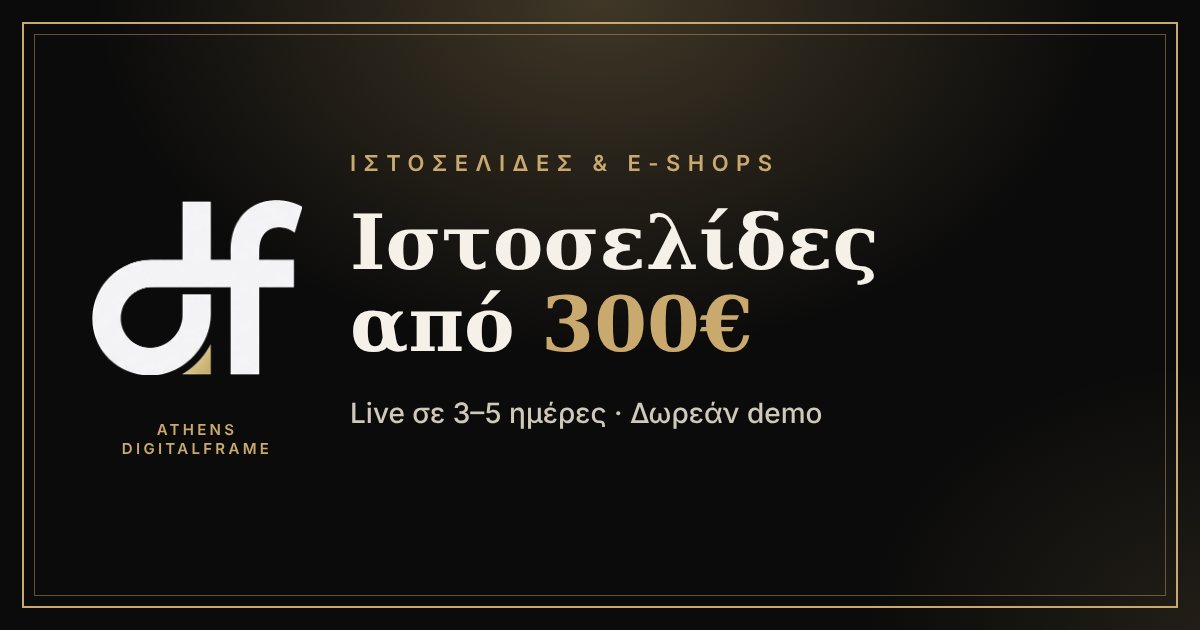
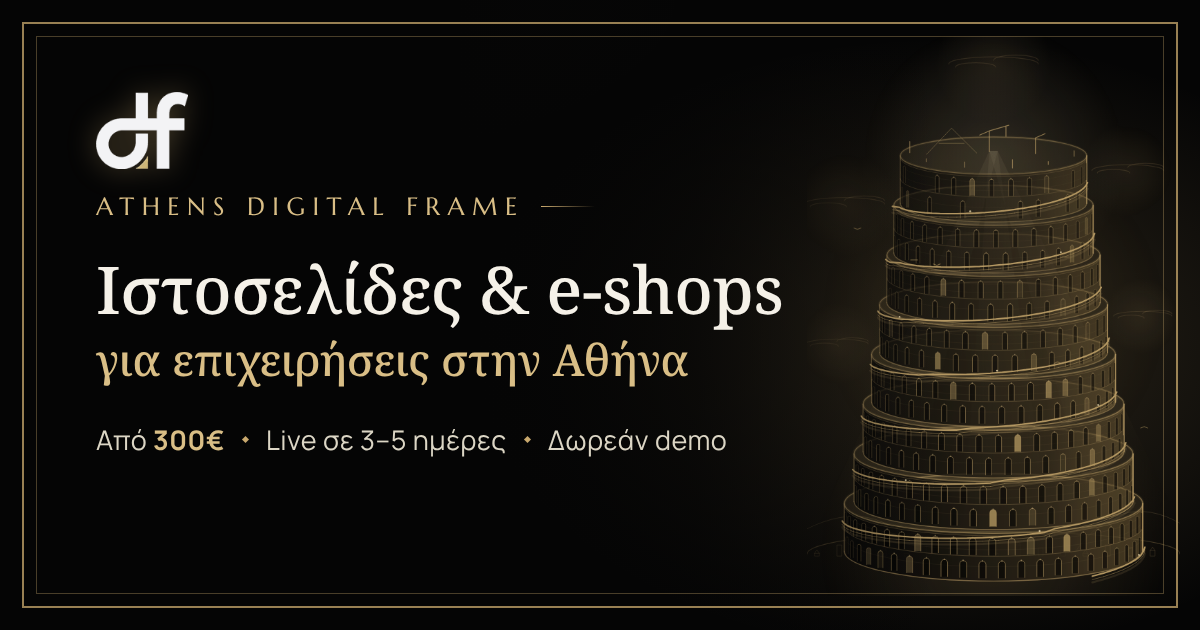
Polish: hero legibility, readable text sizes, prices page restyle, new og image, scroll reveal
Claude-Session: https://claude.ai/code/session_01Leueyi132yxe9phAvRirnF

diff --git a/source/prices_src.html b/source/prices_src.html
@@ -361,7 +361,39 @@ section.compact{padding-left:18px;padding-right:18px}
 .dock .dockrow{max-width:620px}
 .toast{left:max(21px,env(safe-area-inset-left,0px))}
 </style>
-<style>.snd{transition:opacity .35s ease,transform .35s ease,background .2s,border-color .2s}.snd.away{opacity:0;transform:translateY(-10px);pointer-events:none}.homelink{color:var(--gold-soft);text-decoration:none;font-weight:600;display:inline-block;margin-bottom:10px}
+<style>.snd{transition:opacity .35s ease,transform .35s ease,background .2s,border-color .2s}.snd.away{opacity:0;transform:translateY(-10px);pointer-events:none}</style>
+<style>/* premium pass: same palette, lighter type, more air, calmer cards and buttons */
+h1,h2,.hw-head h3,.hw-body strong,.tile strong,.fq summary,.qp .v,.inccols h3{font-weight:500!important}
+h1{letter-spacing:-.005em;line-height:1.26}
+h2{font-size:24px!important;letter-spacing:.005em}
+section{border-color:rgba(201,169,110,.2)!important;box-shadow:inset 0 1px 0 rgba(245,241,232,.05),0 28px 60px -36px #000!important}
+.how{padding:34px 22px 34px!important}.pf{padding:34px 22px!important}.faq2{padding:34px 22px 28px!important}
+section p,section li,.hw-body p{line-height:1.72}
+.eyebrow{letter-spacing:.32em!important;color:var(--gold);opacity:.92}
+.fq summary{font-size:17px!important}
+.fq,.fq details{border-color:rgba(201,169,110,.16)!important}
+.btn{letter-spacing:.03em;font-weight:600;box-shadow:0 6px 18px rgba(201,169,110,.14)}
+.btn:hover{box-shadow:0 8px 22px rgba(201,169,110,.22)}
+.dock .btn:not(.ghost){font-weight:600}
+.dock .btn.ghost#wa{background:rgba(245,241,232,.06)!important;color:var(--cream)!important;border-color:rgba(245,241,232,.4)!important;font-weight:600!important;-webkit-backdrop-filter:blur(8px)!important;backdrop-filter:blur(8px)!important}
+.tile{border-color:rgba(201,169,110,.22)!important}
+/* polish: readability, hero legibility, scroll reveal */
+:root{--muted:#dcd6c5}
+.for,.note,.tile em,.toplead,.contact .alt,.hw-body p,.pf-card p,.price small,.qp .v small,.price-row>span:first-child,.inccols ul.list li,.fq p,footer{font-size:15px!important}
+.toplead{font-size:14px!important}
+.hw-body p,.fq p,.inccols ul.list li{line-height:1.7}
+@media (min-width:900px){
+section>p,.hw-body p,.pf-card p,.inccols ul.list li{max-width:64ch}
+.fq p{max-width:66ch}
+}
+@media (max-width:699px){
+.herotxt{position:relative}
+.herotxt::before{display:block!important;content:"";position:absolute;inset:-22px -14px -10px -18px;z-index:0;pointer-events:none;background:radial-gradient(ellipse 80% 70% at 38% 50%,rgba(5,5,5,.78),rgba(5,5,5,.5) 62%,rgba(5,5,5,0) 100%)}
+.herotxt>*{position:relative;z-index:1}
+}
+.rvjs .rv{opacity:0;transform:translateY(16px);transition:opacity .8s ease,transform .8s cubic-bezier(.2,.8,.2,1)}
+.rvjs .rv.in{opacity:1;transform:none}
+.homelink{color:var(--gold-soft);text-decoration:none;font-weight:600;display:inline-block;margin-bottom:10px}
 .snd.back{right:auto;left:max(88px,calc(env(safe-area-inset-left,0px) + 74px));padding:8px 11px;display:flex;align-items:center;text-decoration:none}
 *,*::before,*::after{-webkit-backdrop-filter:none!important;backdrop-filter:none!important}
 .tile{background:linear-gradient(180deg,rgba(26,24,19,.82),rgba(20,20,17,.82))!important}
@@ -737,6 +769,17 @@ document.addEventListener('click',function(e){
 })();
 </script>
 <script>(function(){var s=[].slice.call(document.querySelectorAll('.snd')),l=0;function f(){var y=window.pageYOffset||document.documentElement.scrollTop||0;if(y>l+4&&y>90)s.forEach(function(b){b.classList.add('away')});else if(y<l-4||y<=90)s.forEach(function(b){b.classList.remove('away')});l=y}window.addEventListener('scroll',f,{passive:true})})();</script>
+
+<script>
+(function(){
+if(!('IntersectionObserver' in window)||(window.matchMedia&&matchMedia('(prefers-reduced-motion:reduce)').matches))return;
+var els=[].slice.call(document.querySelectorAll('section:not(.how):not(.hero),footer'));if(!els.length)return;
+var io=new IntersectionObserver(function(es){es.forEach(function(e){if(e.isIntersecting){e.target.classList.add('in');io.unobserve(e.target)}})},{rootMargin:'0px 0px -6% 0px',threshold:.04});
+document.documentElement.classList.add('rvjs');
+els.forEach(function(e){e.classList.add('rv');io.observe(e)});
+setTimeout(function(){els.forEach(function(e){e.classList.add('in')})},7000);
+})();
+</script>
 <script>
 (function(){
 try{history.scrollRestoration='manual'}catch(e){}

diff --git a/prices.html b/prices.html
@@ -381,7 +381,39 @@ section.compact{padding-left:18px;padding-right:18px}
 </style>
 </head>
 <body>
-<style>.snd{transition:opacity .35s ease,transform .35s ease,background .2s,border-color .2s}.snd.away{opacity:0;transform:translateY(-10px);pointer-events:none}.homelink{color:var(--gold-soft);text-decoration:none;font-weight:600;display:inline-block;margin-bottom:10px}
+<style>.snd{transition:opacity .35s ease,transform .35s ease,background .2s,border-color .2s}.snd.away{opacity:0;transform:translateY(-10px);pointer-events:none}</style>
+<style>/* premium pass: same palette, lighter type, more air, calmer cards and buttons */
+h1,h2,.hw-head h3,.hw-body strong,.tile strong,.fq summary,.qp .v,.inccols h3{font-weight:500!important}
+h1{letter-spacing:-.005em;line-height:1.26}
+h2{font-size:24px!important;letter-spacing:.005em}
+section{border-color:rgba(201,169,110,.2)!important;box-shadow:inset 0 1px 0 rgba(245,241,232,.05),0 28px 60px -36px #000!important}
+.how{padding:34px 22px 34px!important}.pf{padding:34px 22px!important}.faq2{padding:34px 22px 28px!important}
+section p,section li,.hw-body p{line-height:1.72}
+.eyebrow{letter-spacing:.32em!important;color:var(--gold);opacity:.92}
+.fq summary{font-size:17px!important}
+.fq,.fq details{border-color:rgba(201,169,110,.16)!important}
+.btn{letter-spacing:.03em;font-weight:600;box-shadow:0 6px 18px rgba(201,169,110,.14)}
+.btn:hover{box-shadow:0 8px 22px rgba(201,169,110,.22)}
+.dock .btn:not(.ghost){font-weight:600}
+.dock .btn.ghost#wa{background:rgba(245,241,232,.06)!important;color:var(--cream)!important;border-color:rgba(245,241,232,.4)!important;font-weight:600!important;-webkit-backdrop-filter:blur(8px)!important;backdrop-filter:blur(8px)!important}
+.tile{border-color:rgba(201,169,110,.22)!important}
+/* polish: readability, hero legibility, scroll reveal */
+:root{--muted:#dcd6c5}
+.for,.note,.tile em,.toplead,.contact .alt,.hw-body p,.pf-card p,.price small,.qp .v small,.price-row>span:first-child,.inccols ul.list li,.fq p,footer{font-size:15px!important}
+.toplead{font-size:14px!important}
+.hw-body p,.fq p,.inccols ul.list li{line-height:1.7}
+@media (min-width:900px){
+section>p,.hw-body p,.pf-card p,.inccols ul.list li{max-width:64ch}
+.fq p{max-width:66ch}
+}
+@media (max-width:699px){
+.herotxt{position:relative}
+.herotxt::before{display:block!important;content:"";position:absolute;inset:-22px -14px -10px -18px;z-index:0;pointer-events:none;background:radial-gradient(ellipse 80% 70% at 38% 50%,rgba(5,5,5,.78),rgba(5,5,5,.5) 62%,rgba(5,5,5,0) 100%)}
+.herotxt>*{position:relative;z-index:1}
+}
+.rvjs .rv{opacity:0;transform:translateY(16px);transition:opacity .8s ease,transform .8s cubic-bezier(.2,.8,.2,1)}
+.rvjs .rv.in{opacity:1;transform:none}
+.homelink{color:var(--gold-soft);text-decoration:none;font-weight:600;display:inline-block;margin-bottom:10px}
 .snd.back{right:auto;left:max(88px,calc(env(safe-area-inset-left,0px) + 74px));padding:8px 11px;display:flex;align-items:center;text-decoration:none}
 *,*::before,*::after{-webkit-backdrop-filter:none!important;backdrop-filter:none!important}
 .tile{background:linear-gradient(180deg,rgba(26,24,19,.82),rgba(20,20,17,.82))!important}
@@ -757,6 +789,17 @@ document.addEventListener('click',function(e){
 })();
 </script>
 <script>(function(){var s=[].slice.call(document.querySelectorAll('.snd')),l=0;function f(){var y=window.pageYOffset||document.documentElement.scrollTop||0;if(y>l+4&&y>90)s.forEach(function(b){b.classList.add('away')});else if(y<l-4||y<=90)s.forEach(function(b){b.classList.remove('away')});l=y}window.addEventListener('scroll',f,{passive:true})})();</script>
+
+<script>
+(function(){
+if(!('IntersectionObserver' in window)||(window.matchMedia&&matchMedia('(prefers-reduced-motion:reduce)').matches))return;
+var els=[].slice.call(document.querySelectorAll('section:not(.how):not(.hero),footer'));if(!els.length)return;
+var io=new IntersectionObserver(function(es){es.forEach(function(e){if(e.isIntersecting){e.target.classList.add('in');io.unobserve(e.target)}})},{rootMargin:'0px 0px -6% 0px',threshold:.04});
+document.documentElement.classList.add('rvjs');
+els.forEach(function(e){e.classList.add('rv');io.observe(e)});
+setTimeout(function(){els.forEach(function(e){e.classList.add('in')})},7000);
+})();
+</script>
 <script>
 (function(){
 try{history.scrollRestoration='manual'}catch(e){}

diff --git a/source/home_src.html b/source/home_src.html
@@ -528,7 +528,6 @@ html.fgate main{opacity:0}
 /* reduced motion: everything calm */
 @media (prefers-reduced-motion:reduce){*,*::before,*::after{animation-duration:.001ms!important;animation-delay:0s!important;animation-iteration-count:1!important;transition-duration:.001ms!important;scroll-behavior:auto!important}}
 .btn{min-height:44px;box-sizing:border-box}.actions .btn{display:inline-flex;align-items:center;justify-content:center}
-
 /* premium pass: same palette, lighter type, more air, calmer cards and buttons */
 h1,h2,.hw-head h3,.hw-body strong,.tile strong,.fq summary,.qp .v,.inccols h3{font-weight:500!important}
 h1{letter-spacing:-.005em;line-height:1.26}
@@ -544,6 +543,22 @@ section p,section li,.hw-body p{line-height:1.72}
 .dock .btn:not(.ghost){font-weight:600}
 .dock .btn.ghost#wa{background:rgba(245,241,232,.06)!important;color:var(--cream)!important;border-color:rgba(245,241,232,.4)!important;font-weight:600!important;-webkit-backdrop-filter:blur(8px)!important;backdrop-filter:blur(8px)!important}
 .tile{border-color:rgba(201,169,110,.22)!important}
+/* polish: readability, hero legibility, scroll reveal */
+:root{--muted:#dcd6c5}
+.for,.note,.tile em,.toplead,.contact .alt,.hw-body p,.pf-card p,.price small,.qp .v small,.price-row>span:first-child,.inccols ul.list li,.fq p,footer{font-size:15px!important}
+.toplead{font-size:14px!important}
+.hw-body p,.fq p,.inccols ul.list li{line-height:1.7}
+@media (min-width:900px){
+section>p,.hw-body p,.pf-card p,.inccols ul.list li{max-width:64ch}
+.fq p{max-width:66ch}
+}
+@media (max-width:699px){
+.herotxt{position:relative}
+.herotxt::before{display:block!important;content:"";position:absolute;inset:-22px -14px -10px -18px;z-index:0;pointer-events:none;background:radial-gradient(ellipse 80% 70% at 38% 50%,rgba(5,5,5,.78),rgba(5,5,5,.5) 62%,rgba(5,5,5,0) 100%)}
+.herotxt>*{position:relative;z-index:1}
+}
+.rvjs .rv{opacity:0;transform:translateY(16px);transition:opacity .8s ease,transform .8s cubic-bezier(.2,.8,.2,1)}
+.rvjs .rv.in{opacity:1;transform:none}
 </style>
 
 <div class="bg" aria-hidden="true">
@@ -978,6 +993,17 @@ document.getElementById('lf-mail').addEventListener('click',function(){var v=val
 
 <script>
 (function(){
+if(!('IntersectionObserver' in window)||(window.matchMedia&&matchMedia('(prefers-reduced-motion:reduce)').matches))return;
+var els=[].slice.call(document.querySelectorAll('section:not(.how):not(.hero),footer'));if(!els.length)return;
+var io=new IntersectionObserver(function(es){es.forEach(function(e){if(e.isIntersecting){e.target.classList.add('in');io.unobserve(e.target)}})},{rootMargin:'0px 0px -6% 0px',threshold:.04});
+document.documentElement.classList.add('rvjs');
+els.forEach(function(e){e.classList.add('rv');io.observe(e)});
+setTimeout(function(){els.forEach(function(e){e.classList.add('in')})},7000);
+})();
+</script>
+
+<script>
+(function(){
 var cv=document.getElementById('babel');if(!cv)return;
 var ctx=cv.getContext('2d'),W=0,H=0,dpr=Math.min(window.devicePixelRatio||1,1.5);
 var reduce=window.matchMedia('(prefers-reduced-motion:reduce)').matches;
@@ -1129,9 +1155,9 @@ st.appendChild(tx);st.appendChild(im);st.appendChild(nm);document.body.appendChi
 var armed=true,tm=null,opened=false;setTimeout(function(){opened=true;check()},1400);
 function check(){var y=yy();
   if(armed&&(y>450||opened)){armed=false;st.classList.add('on');
-    if(window.innerWidth<700){clearTimeout(tm);tm=setTimeout(function(){st.classList.add('mini')},4000)}}
+    if(window.innerWidth<700){clearTimeout(tm);st.classList.add('mini')}}
   }
-st.addEventListener('click',function(){if(window.innerWidth<700){st.classList.toggle('mini');clearTimeout(tm)}});
+st.addEventListener('click',function(){if(window.innerWidth<700){st.classList.toggle('mini');clearTimeout(tm);if(!st.classList.contains('mini'))tm=setTimeout(function(){st.classList.add('mini')},8000)}});
 var lastY=0,snds=[].slice.call(document.querySelectorAll('.snd'));
 function dirCheck(){var y=yy();
   var hide=(y>lastY+4&&y>90);var show=(y<lastY-4||y<=90);

diff --git a/index.html b/index.html
@@ -546,7 +546,6 @@ html.fgate main{opacity:0}
 /* reduced motion: everything calm */
 @media (prefers-reduced-motion:reduce){*,*::before,*::after{animation-duration:.001ms!important;animation-delay:0s!important;animation-iteration-count:1!important;transition-duration:.001ms!important;scroll-behavior:auto!important}}
 .btn{min-height:44px;box-sizing:border-box}.actions .btn{display:inline-flex;align-items:center;justify-content:center}
-
 /* premium pass: same palette, lighter type, more air, calmer cards and buttons */
 h1,h2,.hw-head h3,.hw-body strong,.tile strong,.fq summary,.qp .v,.inccols h3{font-weight:500!important}
 h1{letter-spacing:-.005em;line-height:1.26}
@@ -562,6 +561,22 @@ section p,section li,.hw-body p{line-height:1.72}
 .dock .btn:not(.ghost){font-weight:600}
 .dock .btn.ghost#wa{background:rgba(245,241,232,.06)!important;color:var(--cream)!important;border-color:rgba(245,241,232,.4)!important;font-weight:600!important;-webkit-backdrop-filter:blur(8px)!important;backdrop-filter:blur(8px)!important}
 .tile{border-color:rgba(201,169,110,.22)!important}
+/* polish: readability, hero legibility, scroll reveal */
+:root{--muted:#dcd6c5}
+.for,.note,.tile em,.toplead,.contact .alt,.hw-body p,.pf-card p,.price small,.qp .v small,.price-row>span:first-child,.inccols ul.list li,.fq p,footer{font-size:15px!important}
+.toplead{font-size:14px!important}
+.hw-body p,.fq p,.inccols ul.list li{line-height:1.7}
+@media (min-width:900px){
+section>p,.hw-body p,.pf-card p,.inccols ul.list li{max-width:64ch}
+.fq p{max-width:66ch}
+}
+@media (max-width:699px){
+.herotxt{position:relative}
+.herotxt::before{display:block!important;content:"";position:absolute;inset:-22px -14px -10px -18px;z-index:0;pointer-events:none;background:radial-gradient(ellipse 80% 70% at 38% 50%,rgba(5,5,5,.78),rgba(5,5,5,.5) 62%,rgba(5,5,5,0) 100%)}
+.herotxt>*{position:relative;z-index:1}
+}
+.rvjs .rv{opacity:0;transform:translateY(16px);transition:opacity .8s ease,transform .8s cubic-bezier(.2,.8,.2,1)}
+.rvjs .rv.in{opacity:1;transform:none}
 </style>
 </head>
 <body>
@@ -997,6 +1012,17 @@ document.getElementById('lf-mail').addEventListener('click',function(){var v=val
 
 <script>
 (function(){
+if(!('IntersectionObserver' in window)||(window.matchMedia&&matchMedia('(prefers-reduced-motion:reduce)').matches))return;
+var els=[].slice.call(document.querySelectorAll('section:not(.how):not(.hero),footer'));if(!els.length)return;
+var io=new IntersectionObserver(function(es){es.forEach(function(e){if(e.isIntersecting){e.target.classList.add('in');io.unobserve(e.target)}})},{rootMargin:'0px 0px -6% 0px',threshold:.04});
+document.documentElement.classList.add('rvjs');
+els.forEach(function(e){e.classList.add('rv');io.observe(e)});
+setTimeout(function(){els.forEach(function(e){e.classList.add('in')})},7000);
+})();
+</script>
+
+<script>
+(function(){
 var cv=document.getElementById('babel');if(!cv)return;
 var ctx=cv.getContext('2d'),W=0,H=0,dpr=Math.min(window.devicePixelRatio||1,1.5);
 var reduce=window.matchMedia('(prefers-reduced-motion:reduce)').matches;
@@ -1148,9 +1174,9 @@ st.appendChild(tx);st.appendChild(im);st.appendChild(nm);document.body.appendChi
 var armed=true,tm=null,opened=false;setTimeout(function(){opened=true;check()},1400);
 function check(){var y=yy();
   if(armed&&(y>450||opened)){armed=false;st.classList.add('on');
-    if(window.innerWidth<700){clearTimeout(tm);tm=setTimeout(function(){st.classList.add('mini')},4000)}}
+    if(window.innerWidth<700){clearTimeout(tm);st.classList.add('mini')}}
   }
-st.addEventListener('click',function(){if(window.innerWidth<700){st.classList.toggle('mini');clearTimeout(tm)}});
+st.addEventListener('click',function(){if(window.innerWidth<700){st.classList.toggle('mini');clearTimeout(tm);if(!st.classList.contains('mini'))tm=setTimeout(function(){st.classList.add('mini')},8000)}});
 var lastY=0,snds=[].slice.call(document.querySelectorAll('.snd'));
 function dirCheck(){var y=yy();
   var hide=(y>lastY+4&&y>90);var show=(y<lastY-4||y<=90);

diff --git a/source/extra.js b/source/extra.js
@@ -21,9 +21,9 @@ st.appendChild(tx);st.appendChild(im);st.appendChild(nm);document.body.appendChi
 var armed=true,tm=null,opened=false;setTimeout(function(){opened=true;check()},1400);
 function check(){var y=yy();
   if(armed&&(y>450||opened)){armed=false;st.classList.add('on');
-    if(window.innerWidth<700){clearTimeout(tm);tm=setTimeout(function(){st.classList.add('mini')},4000)}}
+    if(window.innerWidth<700){clearTimeout(tm);st.classList.add('mini')}}
   }
-st.addEventListener('click',function(){if(window.innerWidth<700){st.classList.toggle('mini');clearTimeout(tm)}});
+st.addEventListener('click',function(){if(window.innerWidth<700){st.classList.toggle('mini');clearTimeout(tm);if(!st.classList.contains('mini'))tm=setTimeout(function(){st.classList.add('mini')},8000)}});
 var lastY=0,snds=[].slice.call(document.querySelectorAll('.snd'));
 function dirCheck(){var y=yy();
   var hide=(y>lastY+4&&y>90);var show=(y<lastY-4||y<=90);

diff --git a/source/reveal.js b/source/reveal.js
@@ -1,0 +1,10 @@
+<script>
+(function(){
+if(!('IntersectionObserver' in window)||(window.matchMedia&&matchMedia('(prefers-reduced-motion:reduce)').matches))return;
+var els=[].slice.call(document.querySelectorAll('section:not(.how):not(.hero),footer'));if(!els.length)return;
+var io=new IntersectionObserver(function(es){es.forEach(function(e){if(e.isIntersecting){e.target.classList.add('in');io.unobserve(e.target)}})},{rootMargin:'0px 0px -6% 0px',threshold:.04});
+document.documentElement.classList.add('rvjs');
+els.forEach(function(e){e.classList.add('rv');io.observe(e)});
+setTimeout(function(){els.forEach(function(e){e.classList.add('in')})},7000);
+})();
+</script>

diff --git a/source/mkpages.py b/source/mkpages.py
@@ -42,8 +42,9 @@ pr=inject_extra(pr)
 css_hide = "<style>.snd{transition:opacity .35s ease,transform .35s ease,background .2s,border-color .2s}.snd.away{opacity:0;transform:translateY(-10px);pointer-events:none}</style>\n"
 js_hide = """<script>(function(){var s=[].slice.call(document.querySelectorAll('.snd')),l=0;function f(){var y=window.pageYOffset||document.documentElement.scrollTop||0;if(y>l+4&&y>90)s.forEach(function(b){b.classList.add('away')});else if(y<l-4||y<=90)s.forEach(function(b){b.classList.remove('away')});l=y}window.addEventListener('scroll',f,{passive:true})})();</script>
 """
+css_hide=css_hide+'<style>'+open('premium_css.txt',encoding='utf-8').read()+open('polish_css.txt',encoding='utf-8').read()+'</style>\n'
 _k=pr.rindex('</style>')+len('</style>');pr=pr[:_k]+'\n'+css_hide+pr[_k:]
-pr=pr.rstrip()+'\n'+js_hide
+pr=pr.rstrip()+'\n'+js_hide+'\n'+open('reveal.js',encoding='utf-8').read()
 
 # ---------- home page
 m=re.search(r'<main>.*?</main>',P,flags=re.S); main=m.group(0)
@@ -258,8 +259,8 @@ for name,h,css in (('home',home,css_home),('prices',pr,css_prices)):
         assert _pre in h
         h=h.replace(_pre,_pre+'<script>document.documentElement.classList.add("fgate");(function(){function d(){document.documentElement.classList.remove("fgate")}setTimeout(d,1400);try{document.fonts.ready.then(d)}catch(e){d()}})()</script>',1)
         h=h.replace('<link rel="stylesheet" href="https://fonts.googleapis.com/css2','<link rel="preload" as="style" href="https://fonts.googleapis.com/css2?family=Manrope:wght@400;500;700&family=Noto+Serif:wght@500;600&family=Marcellus&family=Noto+Serif+Display:ital,wght@1,400&family=Noto+Serif+Display:wght@500&display=swap"><link rel="stylesheet" href="https://fonts.googleapis.com/css2',1)
-        k=h.rindex('</style>');h=h[:k]+open('extra_css.txt',encoding='utf-8').read()+h[k:]
-        h=h.rstrip()+'\n'+open('form.js',encoding='utf-8').read()+'\n'
+        k=h.rindex('</style>');h=h[:k]+open('extra_css.txt',encoding='utf-8').read()+open('premium_css.txt',encoding='utf-8').read()+open('polish_css.txt',encoding='utf-8').read()+h[k:]
+        h=h.rstrip()+'\n'+open('form.js',encoding='utf-8').read()+'\n'+open('reveal.js',encoding='utf-8').read()+'\n'
         h=h.replace('px.forEach(function(e){','if(!reduce)px.forEach(function(e){',1).replace('draw(y+ex,now-t0);','draw(y+ex,reduce?0:now-t0);',1)
         h=h.replace('function frame(now){\n  var diff=target-cur;','function frame(now){\n  var ex=window.__ex||0;var diff=target-cur;',1)
         h=h.replace('m.style.backgroundPositionY=(-y*.4).toFixed(1)','m.style.backgroundPositionY=(-(y+ex)*.4).toFixed(1)',1).replace('draw(y,now-t0);','draw(y+ex,now-t0);',1)

diff --git a/source/DESIGN.md b/source/DESIGN.md
@@ -14,7 +14,7 @@
 | Золото (акценты, рамки, метки) | `--gold` `#C9A96E` |
 | Светлое золото (градиент кнопки, подсветка) | `#D9BE86`, `--gold-soft` `#e6cf9f`, блик `#fff3d6` |
 | Основной текст и заголовки | `--cream` `#F5F1E8` |
-| Приглушённый текст | `--muted` `#cfc9b8` |
+| Приглушённый текст | `--muted` `#dcd6c5` (светлее, чтобы читалось на тёмном) |
 | Текст на золотой кнопке | `#0b0b0b` |
 | Карточки | градиент `rgba(26,24,19,.88)` → `rgba(20,20,17,.88)`, рамка `1px solid rgba(201,169,110,.35)` |
 
@@ -25,7 +25,7 @@
 - Слово «Athens Digital Frame» (wordmark): Marcellus.
 - Основной текст и кнопки: `--body` = Manrope (400/500/700).
 - Метки над заголовками (`.eyebrow`): 11px, заглавные, разрядка `.26em`, золото. Для новых меток использовать 12px.
-- Размеры текста сейчас: 13–16px для основного, 18–22px для заголовков.
+- Размеры текста сейчас: 15–16px для основного и второстепенного (не меньше 14px), 18–24px для заголовков. Строки на десктопе не длиннее ~64 символов.
 
 ## Формы и отступы
 - Карточки и плитки: радиус 18px, внутренний отступ 18px, рамка как в таблице выше.
@@ -45,3 +45,9 @@
 - Цены всегда с полной картиной: сайт 300€; e-shop от 200€ + от 30€/мес; без ΦΠΑ. Не писать «без скрытых расходов» рядом с ценой, где нет ежемесячного платежа.
 - Пустых заглушек («Σύντομα») вместо работ не ставить.
 - Все видимые тексты имеют английский перевод (`data-en` или словарь `EXTRA` в `mkpages.py`).
+
+## Движение и первый экран
+- Блоки (кроме `.how`, у него своя анимация от прокрутки) плавно появляются при прокрутке (`reveal.js`, 0.8s, 16px). При `prefers-reduced-motion` и без JS показываются сразу.
+- На телефоне под текстом первого экрана лежит мягкое тёмное затемнение (`.herotxt::before`), чтобы заголовок читался поверх башни.
+- Бейдж «Ο πύργος της Βαβέλ» на телефоне сразу маленький (не закрывает меню), по нажатию раскрывается на ~8 секунд.
+- Картинка для превью ссылки: `og.png` 1200×630, золотая двойная рамка, wordmark Marcellus, башня справа.
